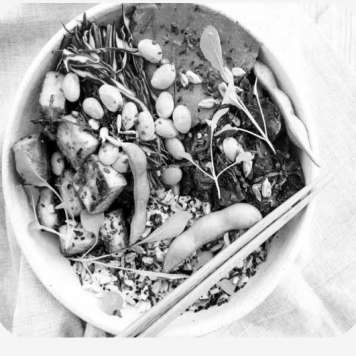
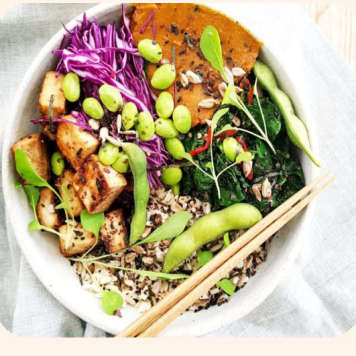
updated main.handlebars if statement and body to properly display hompage for non logged-in users

diff --git a/controllers/htmlRoutes.js b/controllers/htmlRoutes.js
@@ -85,7 +85,7 @@ router.get('/employees', withAuth, async (req, res) => {
       res.render('menu',{ logged_in: req.session.logged_in, dishes: dishes} );
 
       console.log("template should be rendered")
-      
+      //res.json(eData);
     } catch (err) {
       console.log('Error:', err);
       res.status(500).json(err);

diff --git a/server.js b/server.js
@@ -48,7 +48,7 @@ app.use(routes);
  lenna
    .resize(356, 356) 
    .quality(60) 
-   .greyscale() 
+  //  .greyscale() 
     .write("./public/bw.jpg"); 
 }); 
 
